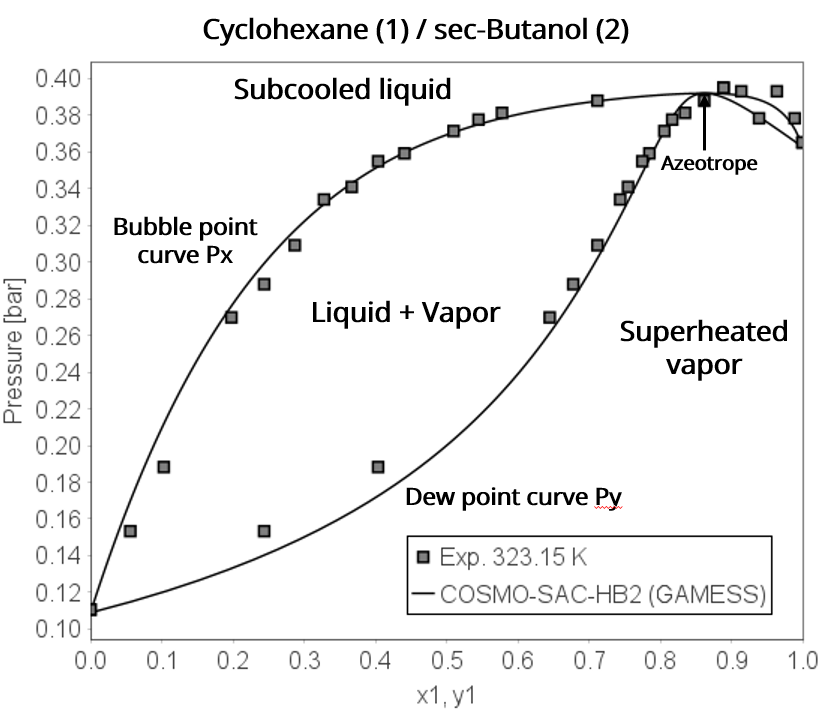
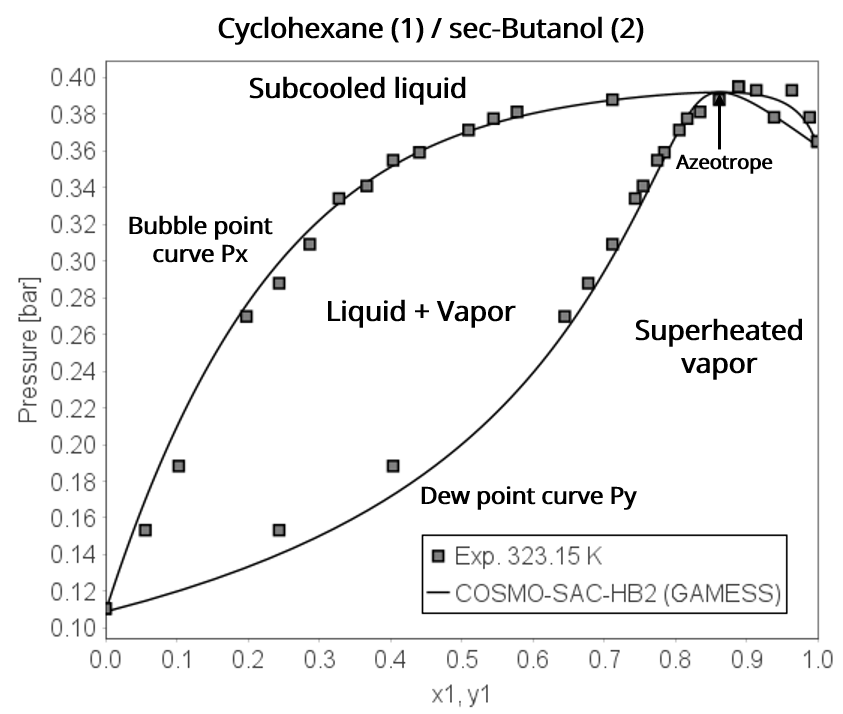
VLE part 2

diff --git a/docs/vle.md b/docs/vle.md
@@ -1,6 +1,6 @@
 # Vapor-Liquid Equilibrium (VLE)
 ## Theory concepts
-The separation of a mixture into a liquid phase and a vapor phase is of great importance and utility for the chemical, petrochemical, natural gas, and other industries. The separation process is fundamented in the phase equilibrium, which describes the conditions under which different phases of a pure substance or a mixture can coexist in thermodynamic equilibrium [@Koretsky2012;@Smith2007].
+The separation of a mixture into a liquid phase and a vapor phase is of great importance and utility for the chemical, petrochemical, natural gas, and other industries. The separation process is founded in the phase equilibrium, which describes the conditions under which different phases of a pure substance or a mixture can coexist in thermodynamic equilibrium [@Koretsky2012;@Smith2007].
 
 An equilibrium system is often represented for two phases, as shown in **Figure 1**. This system is divided into phases \(\alpha\) and \(\beta\), which for VLE represent a liquid phase and a vapor phase. For the system to be in equilibrium, it is essential that its thermodynamic variables remain constant with respect to both time and position, without the presence of a driving force to induce changes [@Koretsky2012;@Smith2007].
 
@@ -9,7 +9,7 @@ An equilibrium system is often represented for two phases, as shown in **Figure 
   <figcaption><strong>Figura 1.</strong> Schematic representation of the equilibrium between two generic phases.</figcaption>
 </figure>
 
-There are some criterias for an equilibrium occur. Firstly, if there were a pressure imbalance in the system, it would tend to contract or expand until its pressure equalized with that of its surroundings. Thus, for a system to be in equilibrium, mechanical equilibrium is essential, with no pressure variations [@Koretsky2012;@Smith2007]:
+There are some criteria for an equilibrium occur. Firstly, if there were a pressure imbalance in the system, it would tend to contract or expand until its pressure equalized with that of its surroundings. Thus, for a system to be in equilibrium, mechanical equilibrium is essential, with no pressure variations [@Koretsky2012;@Smith2007]:
 
 $$P^{\alpha} = P^{\beta} \tag{1}$$ 
 
@@ -49,7 +49,7 @@ $$\hat{\phi}_{i} \equiv \frac{\hat{f}_{i}}{\hat{f}_{i}^{IG}} = \frac{\hat{f}_{i}
 
 The fugacity coefficient is a dimensionless variable that compares the fugacity of substance *i* to the fugacity of the component in an ideal gas mixture, giving an idea of how far from ideality that species is in the mixture [@Koretsky2012;@Smith2007].
 
-When characterizing an incompressible liquid phase, one often resorts to a reference condition other than an ideal gas mixture. In this case, the use of an ideal solution reference is more common. In this context, the fugacity of species *i* in an ideal solution \((\hat{f}_i^{id})\) is assumed to show a linear relationship with the fugacity of component *i* in its pure state \((f_i)\) and its mole fraction in the liquid \((x_i)\). Thus, the fugacity of component *i* in a mixture, when at the reference state of an ideal liquid, is expressed by  [@Koretsky2012;@Smith2007]:
+When characterizing an incompressible liquid phase, one often resorts to a reference condition other than an ideal gas mixture. In this case, the use of an ideal solution reference is more common. In this context, the fugacity of specie *i* in an ideal solution \((\hat{f}_i^{id})\) is assumed to show a linear relationship with the fugacity of component *i* in its pure state \((f_i)\) and its mole fraction in the liquid \((x_i)\). Thus, the fugacity of component *i* in a mixture, when at the reference state of an ideal liquid, is expressed by  [@Koretsky2012;@Smith2007]:
 
 $$\hat{f}_{i}^{id} = x_{i}f_{i} \tag{9}$$
 
@@ -113,16 +113,16 @@ The results obtained from solving the system of equations formed by Equations 13
 In a Pxy diagram presented in **Figure 2**, pressure is plotted against the mole fraction of the liquid and vapor phases (x and y) at a constant temperature. **The Bubble Point Curve (Px curve)** is the upper curve at the diagram. Any point of this curve represents the saturated liquid, where the first bubble of vapor is formed. Above this curve, only the liquid phase exists. **The Dew Point Curve (Py curve)** is the lower curve of the diagram. At any point on this line, the vapor is saturated, where the first drop of liquid is formed. Below this curve, only the vapor phase exists. **The Two-Phase Region** occurs between the two curves, where the liquid and vapor phases coexist in equilibrium [@Koretsky2012;@Smith2007].
 
 <p align="center">
-  <img src="/img/Pxy.png" alt="Pxy" width="300">
+  <img src="/img/Pxy.png" alt="Pxy" width="500">
   <figcaption><strong>Figura 2.</strong> Pxy diagram of cyclohexane(1)/sec-butanol(2). Squares are experimental data at 323.15 K; black line is the COSMO-SAC model.
 </p>
 
 #### Txy Diagram
-In a Txy diagram shwon in **Figure 3**, temperature is plotted against composition at a constant pressure. Similarly, **the Bubble Point Curve (Tx curve)** is the lower curve, and for a given liquid composition it shows the temperature at which the first bubble of vapor forms upon heating. Below this curve, only liquid exists. **The Dew Point Curve (Ty curve)** is the upper curve, which represents the temperature where the last drop of liquid vaporizes. Above this curve, only vapor exists. Again, **The Two-Phase Region** occurs between the curves, where liquid and vapor coexist in equilibrium [@Koretsky2012;@Smith2007].
+In a Txy diagram shown in **Figure 3**, temperature is plotted against composition at a constant pressure. Similarly, **the Bubble Point Curve (Tx curve)** is the lower curve, and for a given liquid composition it shows the temperature at which the first bubble of vapor forms upon heating. Below this curve, only liquid exists. **The Dew Point Curve (Ty curve)** is the upper curve, which represents the temperature where the last drop of liquid vaporizes. Above this curve, only vapor exists. Again, **The Two-Phase Region** occurs between the curves, where liquid and vapor coexist in equilibrium [@Koretsky2012;@Smith2007].
 
 <p align="center">
-  <img src="/img/Txy.png" alt="Txy" width="300">
-  <figcaption><strong>Figura 3.</strong> Txy diagram of ethanol(1)/water(2). Squares are experimental data at 1.01 bar; black line is the COSMO-SAC model.
+  <img src="/img/Txy.png" alt="Txy" width="500">
+  <figcaption><strong>Figure 3.</strong> Txy diagram of ethanol(1)/water(2). Squares are experimental data at 1.01 bar; black line is the COSMO-SAC model.
 </p>
 
 
@@ -131,8 +131,49 @@ In real mixtures, **azeotropes** are frequently observed, which occur when the b
 
 ---
 ## Algorithm
+<!--
+As discussed in the Theory concepts section, there are two main modeling approaches for solving VLE. JCOSMO utilizes, for both of them, a bubble point algorithm. If a isothermal VLE is chosen the pressure (P) and vapor composition (yi) must be found. However, if a isobaric VLE is selected the temperature (T) and yi need to be found. 
 
+**Figure 4** details the algorithm structure for a isothermal VLE. Since the equilibrium temperature is known, the saturation pressures of the pure compounds can be calculated using a correlation (the types and how to introduce its coefficients are detailed in the Practical Example section). The liquid phase composition ($x_i$) must assume a value between 0 and 1, the algorithm discretizes this interval in 200 points. With x_i and T the activity coefficients of the species can be calculated using the activity model selected. With the $\gamma_i$ values, the total system pressure ($P$) and the vapor phase mole fractions ($y_i$) were directly obtained.
+-->
 ## Pratical Example
 
+The main model should be selected in the dropdown list shown in **Figure 4**. The model's default options are displayed below, with values of the universal parameters and different options of combinatorial terms.
+<p align="center">
+  <img src="/img/Model_selection.png" alt="Model_selection" width="1000">
+  <figcaption><strong>Figure 4.</strong> Model selection dropdown list and default parameters.
+</p>
 
+JCOSMO currently supports only binary VLE systems. However, the Mixture tab allows users to view activity coefficients for mixtures with n compounds. This data can be extracted via a Python script, and phase equilibria can then be solved externally. This advanced use case is further explained in Python Interface section. 
 
+For a binary system, you can directly search for the two compounds and add them to the system, as illustrated in **Figure 5**. The search engine uses compound names; if the desired compound is not found, try using alternative synonyms. The first selected compound is represented by the subscript **1**, and the second by **2** in all calculated properties.
+<p align="center">
+  <img src="/img/Compound_selection.png" alt="Compound_selection" width="1000">
+  <figcaption><strong>Figure 5.</strong> Example of a compound being added to the system.
+</p>
+
+Before starting the VLE calculations, press the "Edit..." button and carefully review the properties of each compound.  If critical properties are missing, they should be added if a cubic equation of state is going to be used. The saturation pressure is required if an activity coefficient model is selected, according to the Modified Raoult's Law in the Theory concepts section. By pressing the "Edit..." button, the user can choose the best available correlation. Coefficients are provided just for the default option; if another type is selected, the user must manually enter the new coefficients. Information about each property and correlation is available at the bottom section of the window. After making the necessary changes, confirm by clicking the "OK" button. **Figure 6** illustrates the process of editing compounds and their properties.
+<p align="center">
+  <img src="/img/Edit_properties.png" alt="Edit_properties" width="1000">
+  <figcaption><strong>Figure 6.</strong> Example of editing compound properties.
+</p>
+
+The next step is to compute the VLE. First, select the VLE tab in the upper-right corner of the JCOSMO window. The user can select the desired type of diagram, isobaric or isothermal, by clicking in the dropdown menu. The field on the right corresponds to either the temperature or pressure, depending on the selected diagram type, and can be adjusted by the user. The temperature must be provided in Kelvin and the pressure in bar. The next fields are the start and end value of composition. When the cursor is placed over any of these fields, a tooltip will appear indicating the required property and its unit. The "Use SCMR" option enables the user to apply this mixing rule, which combines an activity coefficient model with an equation of state. Currently, only the SRK-MC equation of state is available for this option. For more information, refer to the "Cubic Equations and Mixing Rules" section under the Theory tab. The next dropdown menus are used to select more models to compare with the main model. Ensure that all required properties are included for each model. Finally, press the "Recalc" button to compute the VLE. **Figure 7** illustrates this process. If you want to save the chart you can press the "Export to PDF" button, which will save a PDF file in the ...\jcosmo3\pdf directory.  Alternatively, you can right click with the mouse and copy the chart. The "Copy to clipboard" option will save the calculations, which can be pasted in an Excel file. The caption box location can be changed in the dropdown menu at the bottom of the window. For more details about binary charts and all options, see the "Binary Mixture Charts" section under Use cases in this documentation.
+<p align="center">
+  <img src="/img/VLE_settings.png" alt="VLE_settings" width="1000">
+  <figcaption><strong>Figure 7.</strong> VLE calculation and options.
+</p>
+
+The comparison of experimental data with the calculated results is also available. This requires creating a .txt file following the template shown in **Figure 8**. The hash symbol (#) is used for comments. Initially write the first and second components, from left to right, with the exact same name as found in the interface. Then, add a header with temperature (T), pressure (P), molar liquid composition (X), and molar vapor composition (Y).  If the letter W is used instead of X, mass fractions are assumed for the liquid phase—this is especially useful for polymers.  Right after the property, include its respective unit. Other temperature units can be used, but never use the degree symbol (°) or it will cause errors. Same for pressure, several units can be used – atm, mmHg, bar, psi, BTU. If data for one of the phases is missing, entering -1 will indicate its absence.
+
+<p align="center">
+  <img src="/img/VLE_txt_example.png" alt="VLE_txt_example" width="700">
+  <figcaption><strong>Figure 8.</strong> Example of experimental data set of VLE to include for comparison with predicted data.
+</p>
+
+After building the .txt file, you can simply load it into the program by clicking the "Experiment..." button on the VLE tab, as shown in Figure 9.
+
+<p align="center">
+  <img src="/img/Load_experiment_VLE.png" alt="Load_experiment_VLE" width="1000">
+  <figcaption><strong>Figure 9.</strong> COSMO-SAC predictions along with experimental data for the chloroform(1)/tetrahydrofuran(2) system.
+</p>
